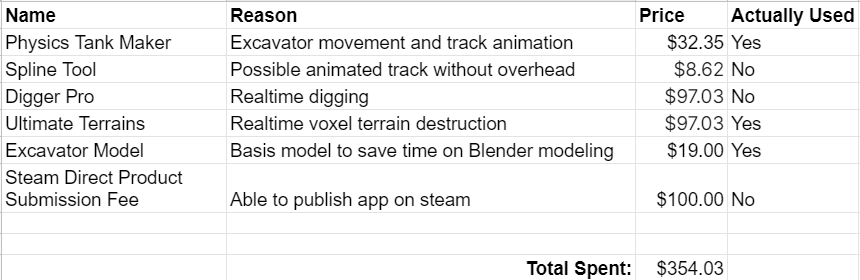
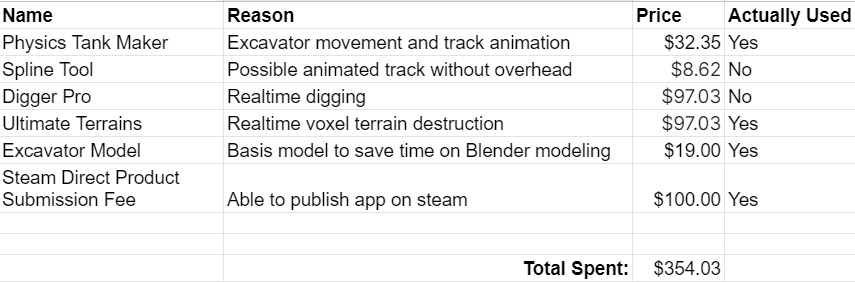
Updated final report readme

diff --git a/README.md b/README.md
@@ -43,8 +43,10 @@
   - [What Was Accomplished?](#what-was-accomplished)
   - [Effort Put In?](#effort-put-in)
 - [Summary of Hours and Justification](#summary-of-hours-and-justification)
+  - [Fall](#fall)
+  - [Spring](#spring)
 - [Summary of Expenses](#summary-of-expenses)
-  - [Assignments](#assignments)
+- [Assignments View](#assignments-view)
 
 
 # Project Description
@@ -183,6 +185,10 @@ I bought the game but it is laggy or unplayable
 
 * If you do not want to wait for a patch you can return the game to steam
 
+I have played SteamVR game in the past but my controllers are not working
+
+* Sometimes antivirus interferes with new Steam games. [See post](https://support.steampowered.com/kb_article.php?ref=4361-MVDP-3638)
+
 I found a bug
 
 * Please submit a bug report in the discussions tab
@@ -271,21 +277,40 @@ The final product that was developed and produced was a publicly accessible and 
 
 ## Effort Put In?
 
-As a solo developer on this project, I had to put in many more hours than I would assume most individuals would put forth for a school project. Using a time management tracking software called ManicTime and adjusting the tracked time for other planning time not recorded by the software; it is estimated that **I spent about 250 hours on the project** during the spring 2021 semester. This accounts for tasks such as 3d modeling, project planning, level design, programming, Steam publishing, and promotion material designing.
+As a solo developer on this project, **I had to put in many more hours than I would assume** most individuals would put forth for a school project. Using a time management tracking software called ManicTime and adjusting the tracked time for other planning time not recorded by the software; it is estimated that **I spent about 250 hours on the project** during the spring 2021 semester. This accounts for tasks such as 3d modeling, project planning, level design, programming, Steam publishing, and promotion material designing.
 
 # Summary of Hours and Justification
 
+## Fall
+
+- [View Commits](https://github.com/MrJohnWeez/VR-Excavator-Simulator/commits/master)
+- Time spent
+  - 20 hours - Identify Scope and perform  research
+  - 20 hours - Determine what assets will be used
+  - 30 hours - Create Prototypes and research best ways to implement possible features
+  - 20 hours - Project [Assignments (1-8)](Fall/Assignments1-8.md)
+
+## Spring
+
+**Although the code is not public I did take screenshots of certain aspects of my GitHub to prove my work:**
+* Code check-ins
+* Issues Created
+* Milestones Created
+
+[Github_Work](Spring/Images/Github_Work/Github_Work.md)
+
 Below I have created a chart using data collected from a time management software I use called ManicTime. It tracked how many hours I worked on the senior design project starting in December 2020 (when classes ended) to March 31st 2021 (released game). Note that ~40 hours are not on graph due to time spent planning and other tasks not recorded directly on a computer.
 
-Hours Spent working on Excavator Simulator VR **VS** Days
+Time Spent working on Excavator Simulator: **Hours VS Days**
 
 ![Hour Effort Graph](Spring/Images/Hour_Effort.png)
 
 I thought it was interesting that I put in a few hours each day right before the holidays. I then worked many hours a day before school work started picking up and then stopped for a few days. That cycle seemed to appear over and over throughout the semester. There was also a large number of hours put in towards the end to try and get the app released. The tail end of the graph also shows that I went dock and did some bug fixing and tweaking before releasing the game to Steam.
 
-Although the code is not public I did take screenshots of all the code check-ins listed below
+See [Github_Work](Spring/Images/Github_Work/Github_Work.md) for repository proof
 
-[Commit logs](Spring/Images/Code_Commits)
+See also [Semester Assignments](Spring/Assignments1-7.md) of progress
+
 
 # Summary of Expenses
 
@@ -293,17 +318,8 @@ I set a budget of about $200 of my own personal money. I did go over budget by a
 
 ![Cost Chart](Spring/Images/Cost_Chart.png)
 
-I hope to make some of this investment back though selling copies of my game on Steam.
+**I hope *(would be nice at least)* to make some of this investment back though selling copies of my game on Steam.** [PLAY ON STEAM TODAY!](https://store.steampowered.com/app/1526380/Excavator_Simulator_VR/)
 
+# Assignments View
 
-
-## Assignments
-
-- [Assignment 1 Test Plan](Spring/Assignment_1_Test_Plan.pdf)
-  - [Actual Tests Used](Spring/Files/Actual_Used_Test_Cases.pdf)
-- [Assignment 2 User Documentation & Manual](Spring/Assignment_2_User_Docs.md) 
-- [Assignment 3 Slide Deck](Spring/Assignment_3_Slide_Deck.pdf)
-- [Assignment 4 Poster](Spring/Images/Poster.pdf)
-- [Assignment 5 Presentation Video](https://www.mrjohnweez.com/excavator_sim_vr.html)
-- [Assignment 6 Self Assessment](Spring/Assignment_6_Self_Assessment.md)
-
+[Semester Assignments 1-7](Spring/Assignments1-7.md)

diff --git a/Fall/README.md b/Fall/README.md
@@ -2,6 +2,7 @@
 
 Table of Contents for Fall Design Report. View Direct [Assignments (1-8)](Assignments1-8.md) instead
 
+- [VR Excavator Simulator](#vr-excavator-simulator)
 - [Project Abstract](#project-abstract)
 - [Project Description](#project-description)
   - [Purpose](#purpose)
@@ -10,6 +11,9 @@ Table of Contents for Fall Design Report. View Direct [Assignments (1-8)](Assign
   - [User Stories](#user-stories)
   - [Design Diagrams](#design-diagrams)
   - [Description of Design Diagrams](#description-of-design-diagrams)
+    - [D0](#d0)
+    - [D1](#d1)
+    - [D2](#d2)
 - [Project Tasks and Timeline](#project-tasks-and-timeline)
   - [Task List](#task-list)
   - [Timeline](#timeline)
@@ -17,7 +21,19 @@ Table of Contents for Fall Design Report. View Direct [Assignments (1-8)](Assign
   - [Milestones](#milestones)
 - [PPT Slideshow](#ppt-slideshow)
 - [Self-Assessment Essays](#self-assessment-essays)
-- [Professional Biography](#professional-biographies)
+  - [Introduction](#introduction)
+  - [College Curriculum](#college-curriculum)
+  - [Co-op Experiences](#co-op-experiences)
+  - [Motivation](#motivation)
+  - [Preliminary Project Approach](#preliminary-project-approach)
+- [Professional Biography](#professional-biography)
+  - [John Wiesner](#john-wiesner)
+  - [Contact](#contact)
+  - [Co-op Work Experience](#co-op-work-experience)
+    - [Software Engineer, Kinetic Vision Evendale Ohio. (Fall 2017 - Present)](#software-engineer-kinetic-vision-evendale-ohio-fall-2017---present)
+  - [Expertise Areas](#expertise-areas)
+  - [Areas of Interest](#areas-of-interest)
+  - [Project Sought](#project-sought)
 - [Budget](#budget)
   - [Expenses](#expenses)
   - [Donations](#donations)

diff --git a/Spring/Assignments1-7.md b/Spring/Assignments1-7.md
@@ -1,0 +1,10 @@
+# Assignment View for Spring Design Report
+
+- [Assignment 1 Test Plan](Assignment_1_Test_Plan.pdf)
+  - [Actual Tests Used](Files/Actual_Used_Test_Cases.pdf)
+- [Assignment 2 User Documentation & Manual](Assignment_2_User_Docs.md) 
+- [Assignment 3 Slide Deck](Assignment_3_Slide_Deck.pdf)
+- [Assignment 4 Poster](Images/Poster.pdf)
+- [Assignment 5 Presentation Video](https://www.mrjohnweez.com/excavator_sim_vr.html)
+- [Assignment 6 Self Assessment](Assignment_6_Self_Assessment.md)
+- [Assignment 7 Final Design Report](../README.md)

diff --git a/Spring/Images/Github_Work/Github_Work.md b/Spring/Images/Github_Work/Github_Work.md
@@ -1,0 +1,19 @@
+# Code Commits
+
+![Code Commits 1](Code_Commits_1.png)
+
+![Code Commits 2](Code_Commits_2.png)
+
+![Code Commits 3](Code_Commits_3.png)
+
+# Github Issues
+
+![Issues Part 1](Issues_part_1.png)
+
+![Issues Part 2](Issues_part_2.png)
+
+# Milestones
+
+![Milestones Part 1](Milestones_part_1.png)
+
+![Milestones Part 2](Milestones_part_2.png)
